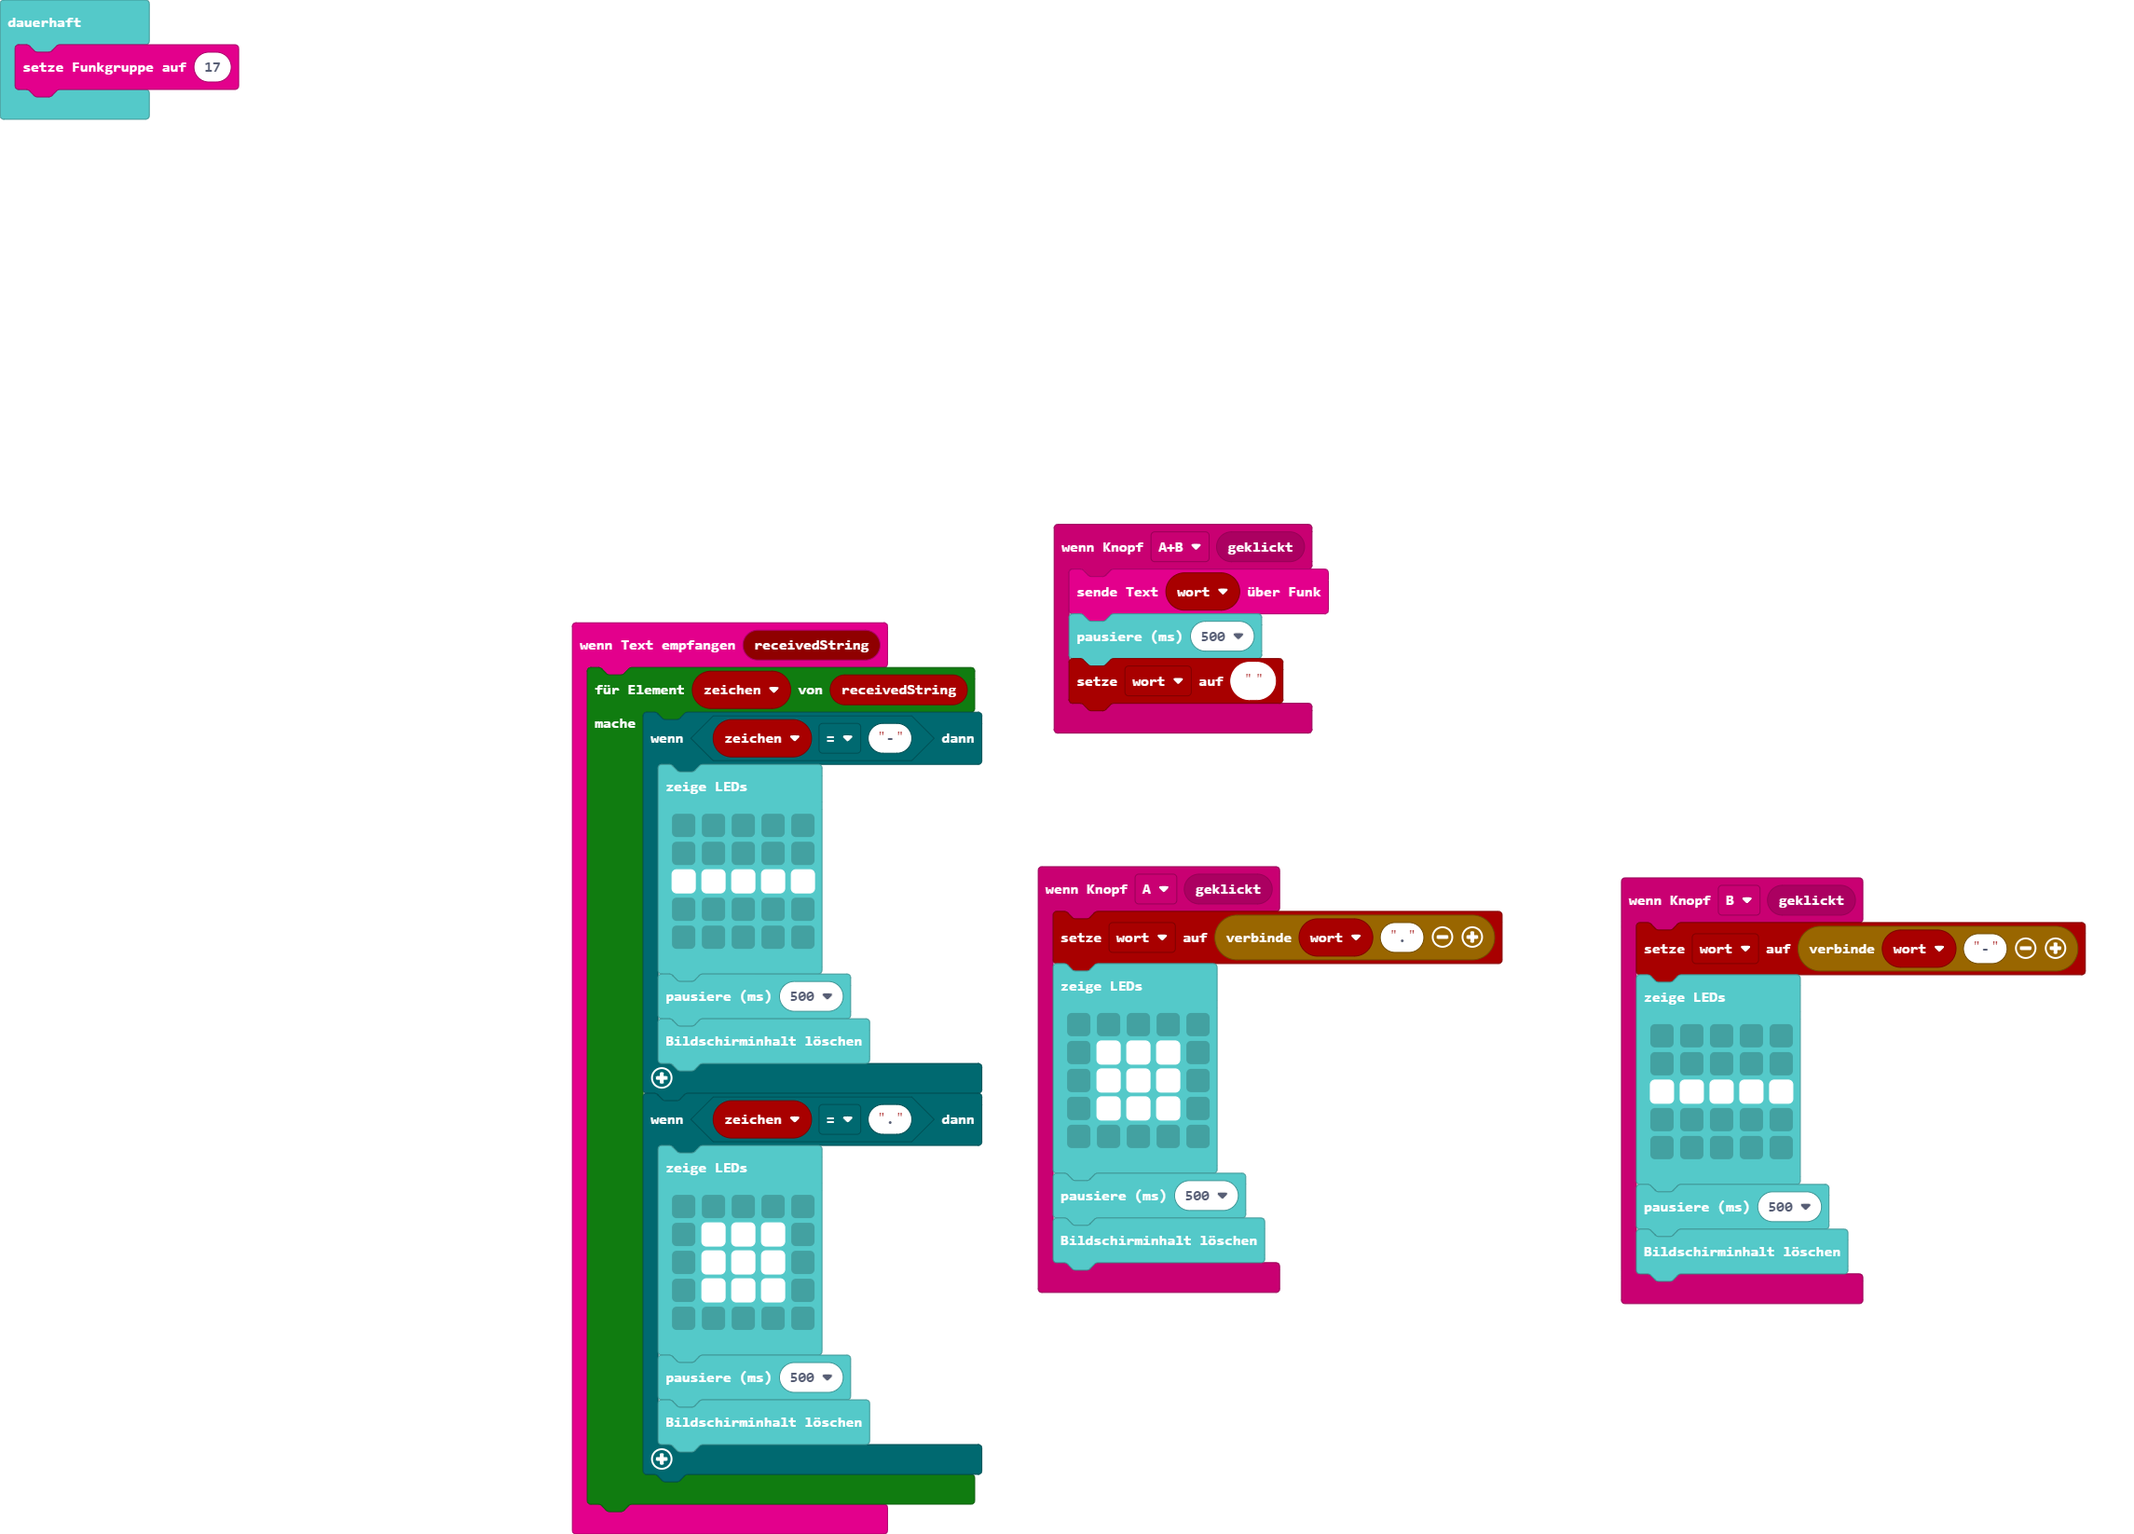
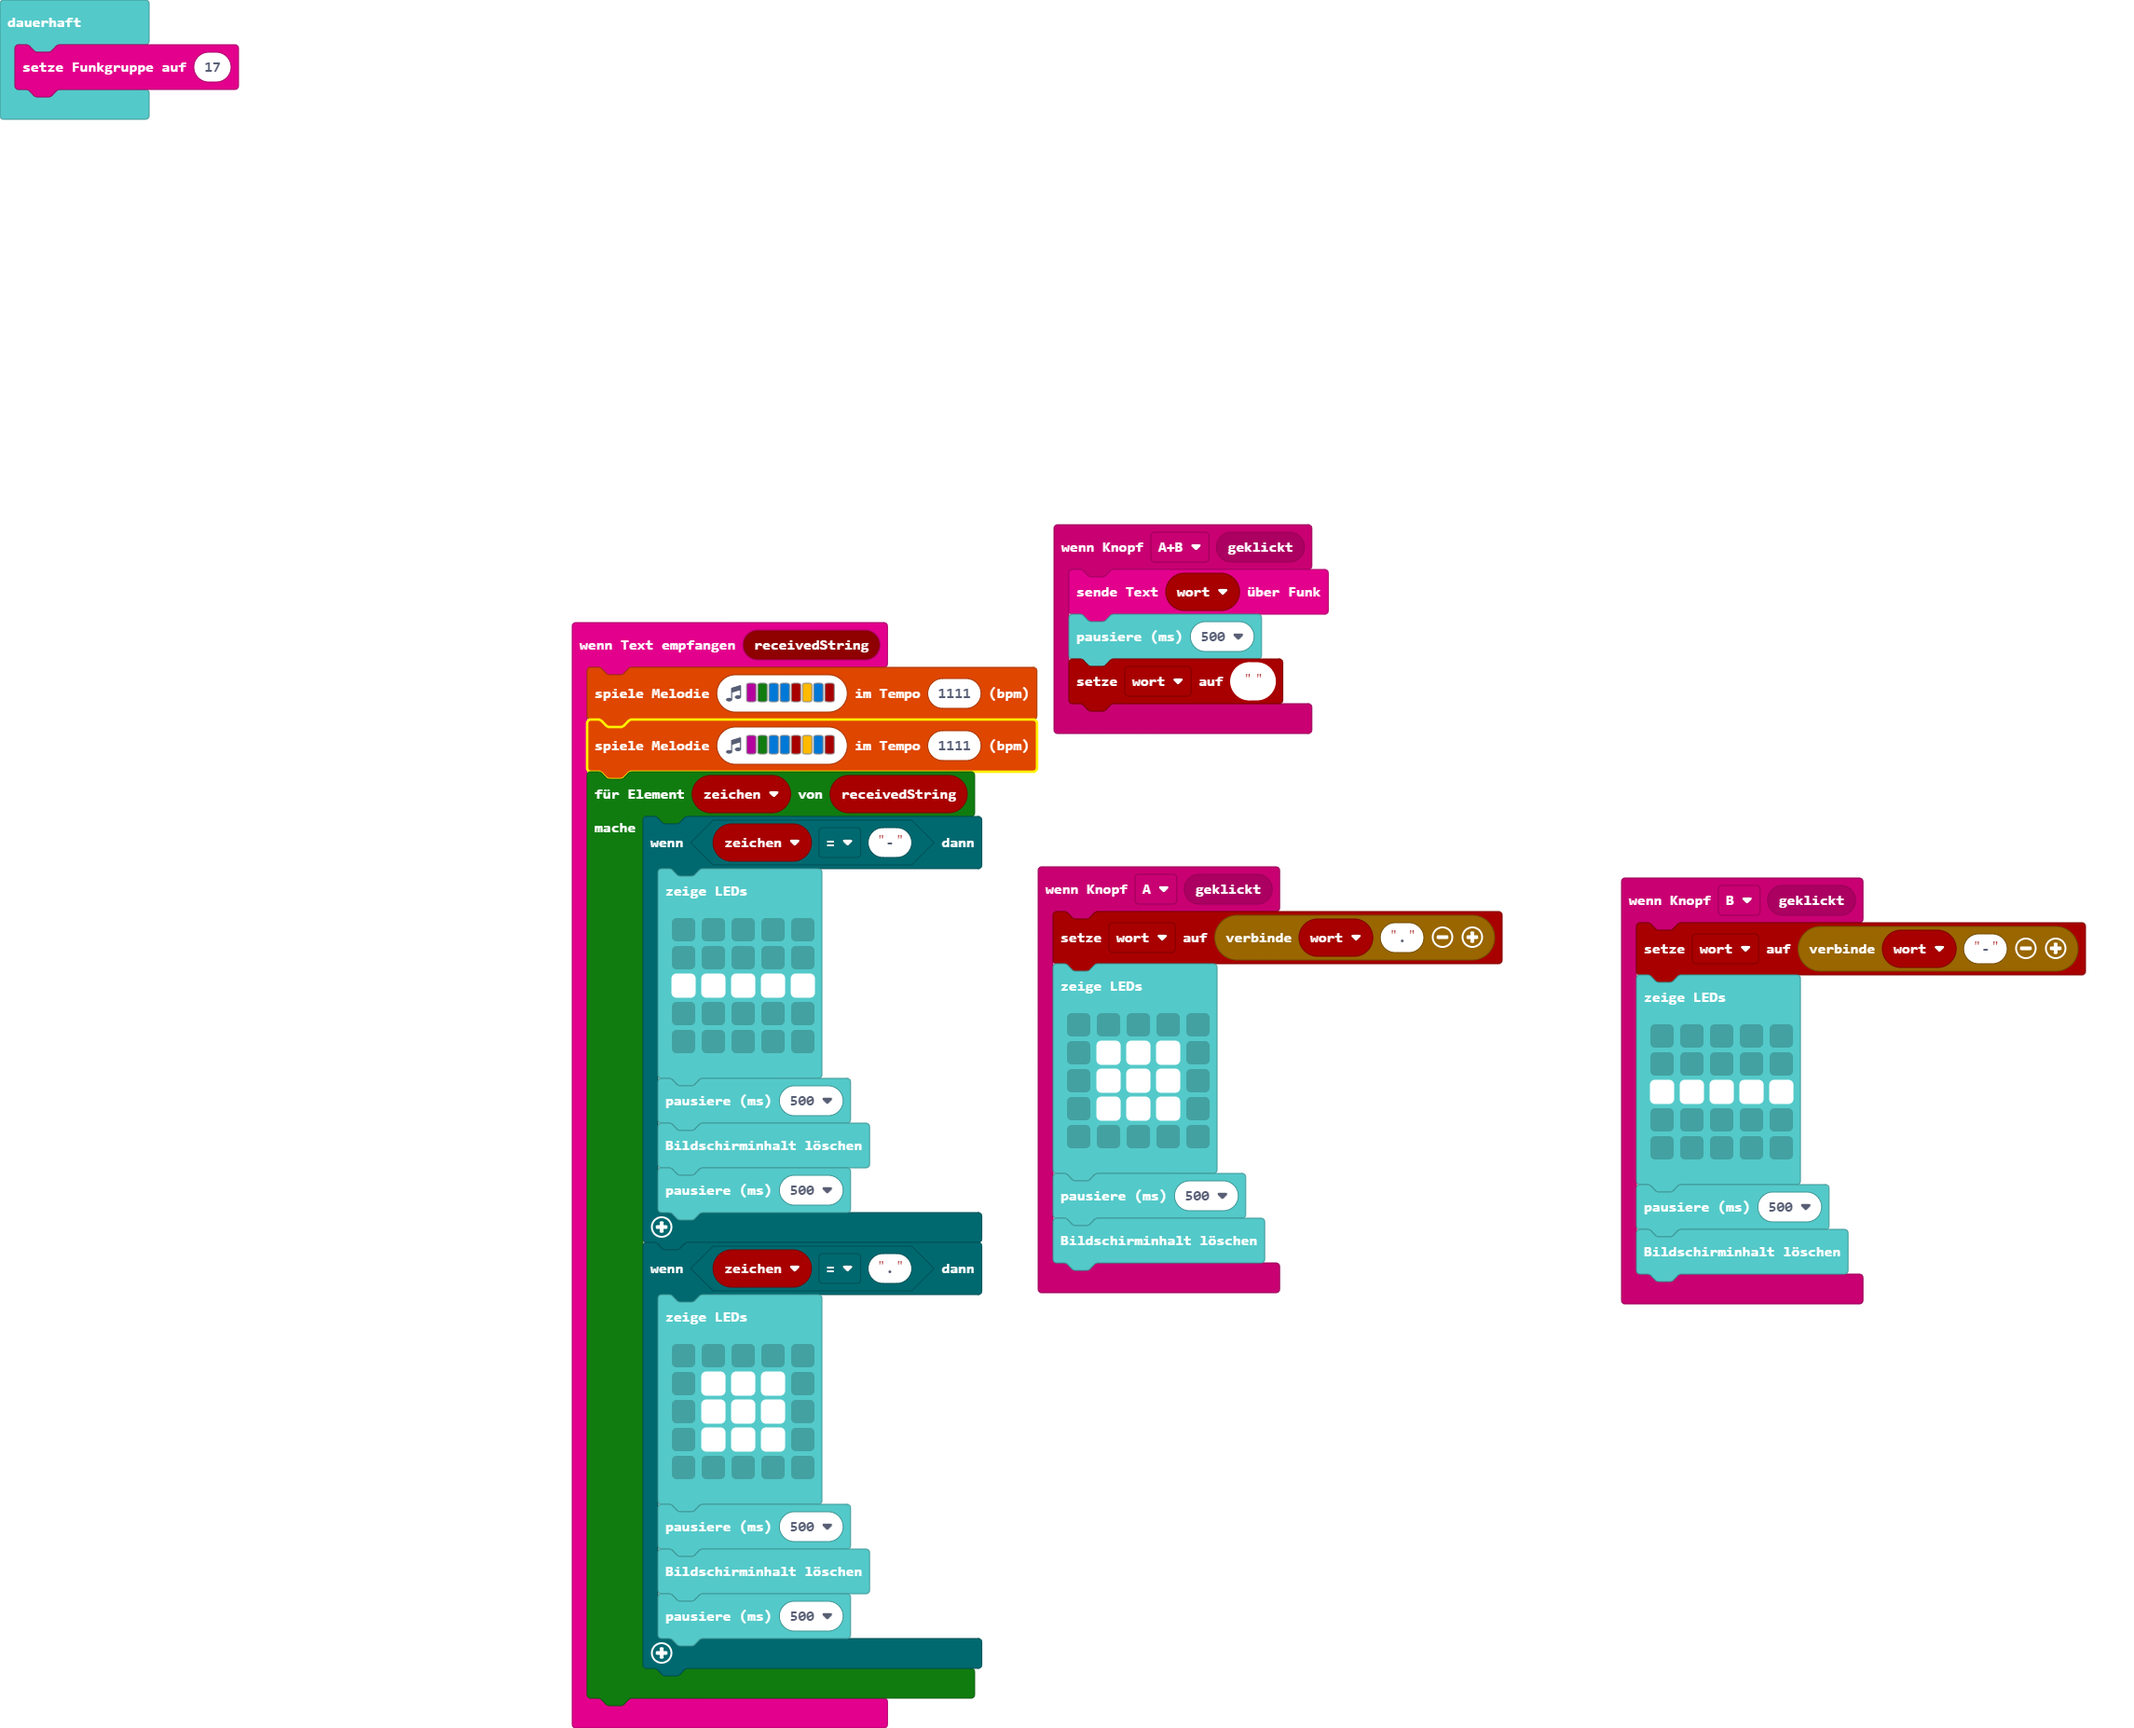
Aktualisiere main.blocks, main.ts

diff --git a/main.ts b/main.ts
@@ -29,6 +29,8 @@ input.onButtonEvent(Button.B, input.buttonEventClick(), function () {
     basic.clearScreen()
 })
 radio.onReceivedString(function (receivedString) {
+    music.playMelody("C G E E C5 A E C5 ", 1111)
+    music.playMelody("C G E E C5 A E C5 ", 1111)
     for (let zeichen of receivedString) {
         if (zeichen == "-") {
             basic.showLeds(`
@@ -40,6 +42,7 @@ radio.onReceivedString(function (receivedString) {
                 `)
             basic.pause(500)
             basic.clearScreen()
+            basic.pause(500)
         }
         if (zeichen == ".") {
             basic.showLeds(`
@@ -51,6 +54,7 @@ radio.onReceivedString(function (receivedString) {
                 `)
             basic.pause(500)
             basic.clearScreen()
+            basic.pause(500)
         }
     }
 })
